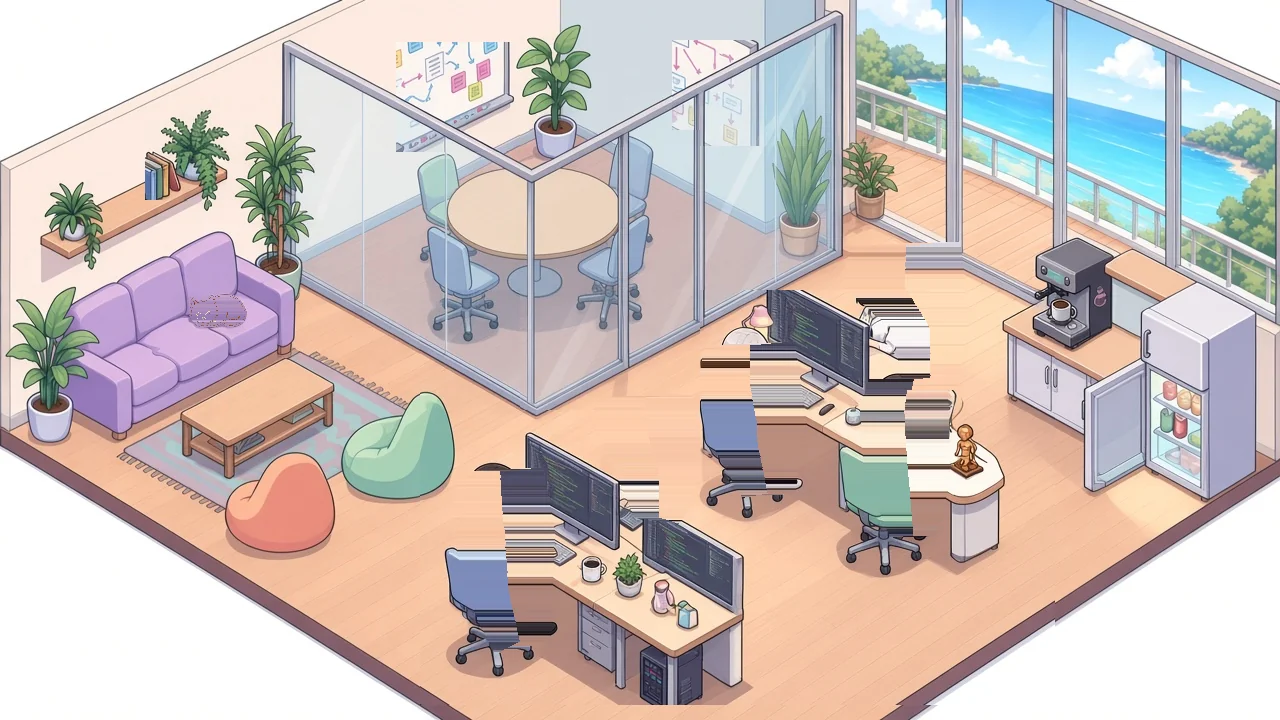
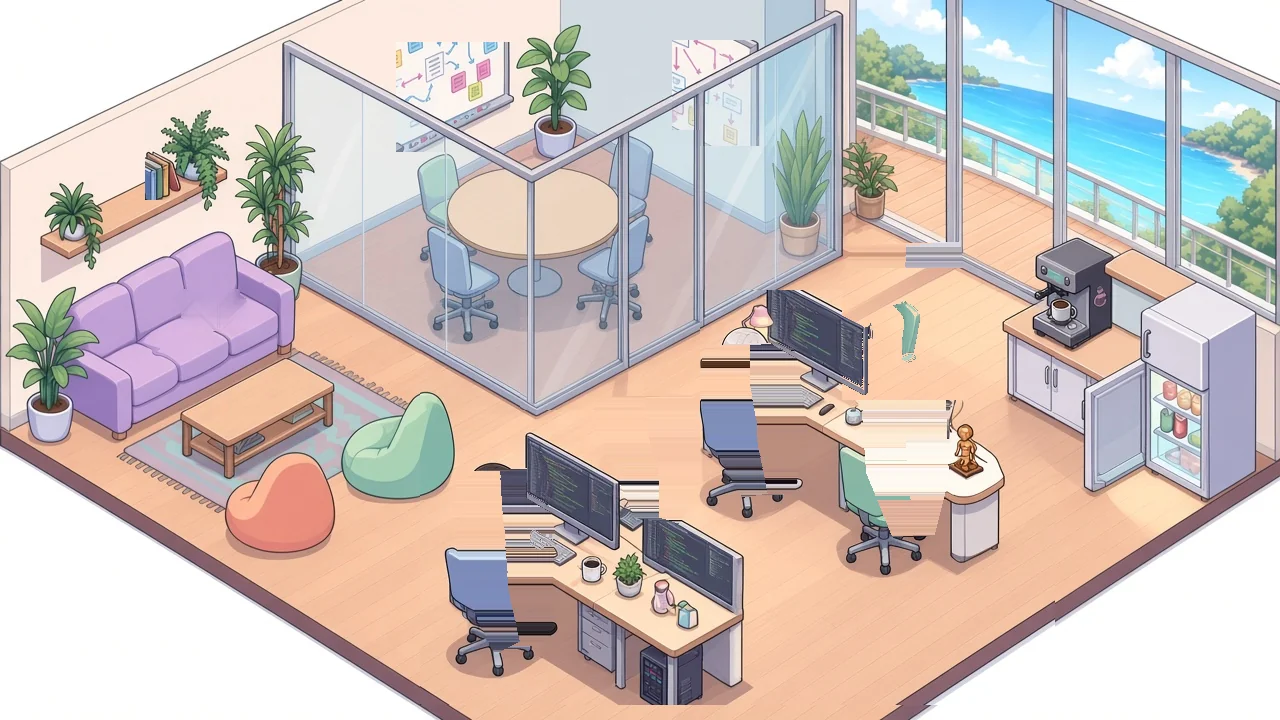
fix: r3 依審核修正（#254）

diff --git a/server/src/main/resources/public/js/dev-machines.js b/server/src/main/resources/public/js/dev-machines.js
@@ -298,11 +298,30 @@ export function createDevMachinesPage(opts) {
     }
   }
 
+  function setActiveTab(id) {
+    activeTab = id === 'office' ? 'office' : 'machines';
+    if (!doc.querySelectorAll) return;
+    const tabs = doc.querySelectorAll('[data-dev-tab]');
+    tabs.forEach((el) => {
+      const active = el.getAttribute('data-dev-tab') === activeTab;
+      el.classList.toggle('is-active', active);
+      el.setAttribute('aria-pressed', active ? 'true' : 'false');
+    });
+  }
+
   function showMachinesView() {
     if (root) root.hidden = false;
     const host = doc.getElementById('labOfficeRoot');
     if (host) host.hidden = true;
     if (officeCtrl) officeCtrl.close();
+  }
+
+  function returnToMachineList() {
+    if (activeTab !== 'office') return;
+    setActiveTab('machines');
+    if (root) root.hidden = false;
+    refresh();
+    if (!doc.hidden) schedule();
   }
 
   function showOfficeView() {
@@ -315,13 +334,17 @@ export function createDevMachinesPage(opts) {
       root.hidden = true;
     }
     if (!officeCtrl) {
-      officeCtrl = createLabOfficeController({ doc, win });
+      officeCtrl = createLabOfficeController({
+        doc,
+        win,
+        hooks: { onClose: returnToMachineList }
+      });
     }
     officeCtrl.open();
   }
 
   function onTab(id) {
-    activeTab = id === 'office' ? 'office' : 'machines';
+    setActiveTab(id);
     if (activeTab === 'office') {
       stopTimer();
       showOfficeView();

diff --git a/server/src/main/resources/public/css/lab-office.css b/server/src/main/resources/public/css/lab-office.css
@@ -205,10 +205,20 @@
 }
 
 @media (max-width: 520px) {
+  .lab-office-char img {
+    height: 42px;
+  }
+  .lab-office-char[data-char="kitten"] { left: 10% !important; top: 86% !important; }
+  .lab-office-char[data-char="tiger"] { left: 30% !important; top: 86% !important; }
+  .lab-office-char[data-char="reviewer"] { left: 50% !important; top: 86% !important; }
+  .lab-office-char[data-char="artist3d"] { left: 70% !important; top: 86% !important; }
+  .lab-office-char[data-char="oki"] { left: 90% !important; top: 86% !important; }
   .lab-office-bubble {
-    max-width: 6.4rem;
-    font-size: 11px;
-    line-height: 1.25;
+    max-width: 3.15rem;
+    font-size: 10px;
+    line-height: 1.2;
+    padding: 2px 3px;
+    overflow-wrap: anywhere;
   }
   .lab-office-portrait {
     max-height: 112px;

diff --git a/scripts/process_lab_2f_assets.py b/scripts/process_lab_2f_assets.py
@@ -54,36 +54,62 @@ def paste_box(dst: Image.Image, src: Image.Image, box: tuple[int, int, int, int]
     dst.paste(src.crop(box), box[:2])
 
 
+def _is_sofa(rgb: tuple[int, int, int]) -> bool:
+    r, g, b = rgb
+    return b + 8 >= r and b > 158 and r > 145 and g > 120 and b < r + 48 and g < b + 10
+
+
 def remove_cat(img: Image.Image) -> None:
-    """只蓋橘色貓身，同一列往左找沙發的紫色椅面，避免整塊矩形色差。"""
+    """沙發右墊上的貓用四周椅面顏色補上，不留貓形色塊。"""
     px = img.load()
-
-    def sofa(r: int, g: int, b: int) -> bool:
-        return b > r + 8 and b > 175 and 140 < r < 235
-
-    def cat(r: int, g: int, b: int) -> bool:
-        if r > 165 and r > b + 18 and g < 210:
-            return True
-        if r > 230 and g > 200 and b > 190 and r >= b:
-            return True
-        if r < 130 and g < 100 and b < 120 and r + 15 >= b:
-            return True
-        return False
-
-    for y in range(288, 336):
-        for x in range(176, 260):
+    w, h = img.size
+    x0, y0, x1, y1 = 184, 292, 256, 340
+    mask = Image.new("L", img.size, 0)
+    mp = mask.load()
+    q: deque[tuple[int, int]] = deque()
+    for y in range(y0, y1):
+        for x in range(x0, x1):
             r, g, b = px[x, y]
-            if not cat(r, g, b):
+            if r > 160 and b < 145 and r > b + 25 and g < 190:
+                q.append((x, y))
+    seen: set[tuple[int, int]] = set()
+    while q:
+        x, y = q.popleft()
+        if (x, y) in seen or not (x0 <= x < x1 and y0 <= y < y1):
+            continue
+        seen.add((x, y))
+        if _is_sofa(px[x, y]):
+            continue
+        mp[x, y] = 255
+        q.extend(((x + 1, y), (x - 1, y), (x, y + 1), (x, y - 1)))
+    mask = mask.filter(ImageFilter.MaxFilter(7))
+    mp = mask.load()
+    sample = mask.filter(ImageFilter.MaxFilter(5)).load()
+    src = img.copy().load()
+    dirs = ((1, 0), (-1, 0), (0, 1), (0, -1), (1, 1), (1, -1), (-1, 1), (-1, -1))
+    for y in range(y0 - 6, y1 + 6):
+        for x in range(x0 - 6, x1 + 6):
+            if not mp[x, y]:
                 continue
-            src = None
-            for x2 in range(x - 1, 140, -1):
-                sr, sg, sb = px[x2, y]
-                if sofa(sr, sg, sb) and not cat(sr, sg, sb):
-                    src = (sr, sg, sb)
-                    break
-            if src is None:
-                src = px[150, y]
-            px[x, y] = src
+            acc = [0.0, 0.0, 0.0]
+            wt = 0.0
+            for dx, dy in dirs:
+                nx, ny = x, y
+                for k in range(1, 90):
+                    nx += dx
+                    ny += dy
+                    if not (0 <= nx < w and 0 <= ny < h):
+                        break
+                    if sample[nx, ny] == 0 and _is_sofa(src[nx, ny]):
+                        wgt = 1.0 / (k * k)
+                        c = src[nx, ny]
+                        acc[0] += c[0] * wgt
+                        acc[1] += c[1] * wgt
+                        acc[2] += c[2] * wgt
+                        wt += wgt
+                        break
+            if wt:
+                px[x, y] = tuple(max(0, min(255, int(a / wt))) for a in acc)
 
 
 def remove_people(img: Image.Image) -> None:
@@ -117,6 +143,132 @@ def remove_people(img: Image.Image) -> None:
                     px[i, y] = right
 
 
+def _screenish(rgb: tuple[int, int, int]) -> bool:
+    r, g, b = rgb
+    return (
+        20 < r < 165
+        and 20 < g < 175
+        and 48 < b < 198
+        and b + 8 >= r
+        and b + 16 >= g
+        and (b - r) < 70
+        and r + g + b > 120
+        and g < b + 20
+        and r < b + 12
+    )
+
+
+def _keyish(rgb: tuple[int, int, int]) -> bool:
+    r, g, b = rgb
+    return abs(r - g) < 22 and abs(r - b) < 28 and 130 < r < 220 and max(rgb) - min(rgb) < 42
+
+
+def _green_chair(rgb: tuple[int, int, int]) -> bool:
+    r, g, b = rgb
+    return g > r + 12 and g > 130 and g + 8 >= b and r < 190
+
+
+def _flood_box(
+    px,
+    box: tuple[int, int, int, int],
+    seeds: tuple[tuple[int, int], ...],
+    pred,
+) -> set[tuple[int, int]]:
+    x0, y0, x1, y1 = box
+    seen: set[tuple[int, int]] = set()
+    q: deque[tuple[int, int]] = deque(seeds)
+    while q:
+        x, y = q.popleft()
+        if not (x0 <= x < x1 and y0 <= y < y1) or (x, y) in seen:
+            continue
+        if not pred(px[x, y]):
+            continue
+        seen.add((x, y))
+        q.extend(((x + 1, y), (x - 1, y), (x, y + 1), (x, y - 1)))
+    return seen
+
+
+def _desk_like(rgb: tuple[int, int, int]) -> bool:
+    r, g, b = rgb
+    if r > 200 and g > 165 and b > 130 and r > b + 15:
+        return True
+    return r > 235 and g > 225 and b > 210
+
+
+def _restore_covered_furniture(img: Image.Image, before: Image.Image, empty: Image.Image) -> None:
+    """水平填掉人物時會切到螢幕和鍵盤。只把螢幕、鍵盤從抹除前貼回，人影改鋪地板。"""
+    bp = before.load()
+    op = img.load()
+    ep = empty.load()
+    w, h = img.size
+    screen = _flood_box(bp, (522, 432, 612, 528), ((560, 470), (580, 490), (590, 510)), _screenish)
+    screen |= _flood_box(bp, (755, 265, 905, 415), ((790, 310), (820, 340), (850, 360)), _screenish)
+    keys = _flood_box(bp, (530, 515, 700, 590), ((540, 540), (560, 555), (620, 540), (650, 545)), _keyish)
+    keys |= _flood_box(bp, (735, 360, 870, 440), ((760, 385), (790, 400), (820, 395)), _keyish)
+    for x, y in screen | keys:
+        op[x, y] = bp[x, y]
+    keep = set(keys)
+
+    def _wood(rgb: tuple[int, int, int]) -> bool:
+        r, g, b = rgb
+        return r > 200 and g > 165 and b > 135 and r > b + 18
+
+    for _ in range(8):
+        grown: list[tuple[int, int, tuple[int, int, int]]] = []
+        for x0, y0, x1, y1 in ((530, 515, 700, 590), (735, 360, 870, 440)):
+            for y in range(y0, y1):
+                for x in range(x0, x1):
+                    if (x, y) in keep or not _wood(op[x, y]):
+                        continue
+                    for dx, dy in ((1, 0), (-1, 0), (0, 1), (0, -1)):
+                        nbr = (x + dx, y + dy)
+                        if nbr in keep:
+                            grown.append((x, y, op[nbr]))
+                            break
+        if not grown:
+            break
+        for x, y, color in grown:
+            op[x, y] = color
+            keep.add((x, y))
+    # 後排螢幕右側露出的襯衫與頭髮改鋪空景地板，綠椅留著。
+    for y in range(268, 400):
+        for x in range(842, 1005):
+            if (x, y) in screen:
+                continue
+            if _green_chair(bp[x, y]):
+                op[x, y] = bp[x, y]
+                continue
+            op[x, y] = ep[x, y]
+    # 圓桌那個人抹掉後留下的灰直紋，改接鄰近桌面。
+    mask = Image.new("L", img.size, 0)
+    ImageDraw.Draw(mask).polygon(PERSON_POLYS[4], fill=255)
+    mp = mask.load()
+    for y in range(h):
+        x = 0
+        while x < w:
+            if not mp[x, y]:
+                x += 1
+                continue
+            start = x
+            color = op[x, y]
+            while x < w and mp[x, y] and op[x, y] == color:
+                x += 1
+            end = x - 1
+            if end - start + 1 < 16 or _desk_like(color):
+                continue
+            donor = None
+            for dist in range(1, 80):
+                for xx in (end + dist, start - dist):
+                    if 0 <= xx < w and not (mp[xx, y] and op[xx, y] == color) and _desk_like(op[xx, y]):
+                        donor = op[xx, y]
+                        break
+                if donor:
+                    break
+            if donor:
+                for xx in range(start, end + 1):
+                    op[xx, y] = donor
+
+
 def build_office_bg() -> Image.Image:
     empty = Image.open(RAW / "office-2f-empty.jpg").convert("RGB")
     ref = Image.open(RAW / "office-2f-desks-ref.jpg").convert("RGB")
@@ -128,7 +280,9 @@ def build_office_bg() -> Image.Image:
         paste_box(out, ref, box)
     for box in RESTORE_EMPTY:
         paste_box(out, empty, box)
+    before_people = out.copy()
     remove_people(out)
+    _restore_covered_furniture(out, before_people, empty)
     w, h = out.size
     if w > MAX_BG_W:
         nh = int(h * MAX_BG_W / w)
